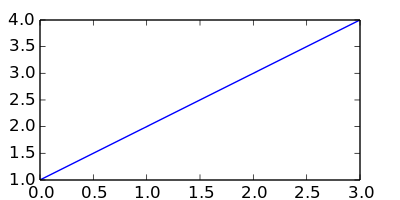
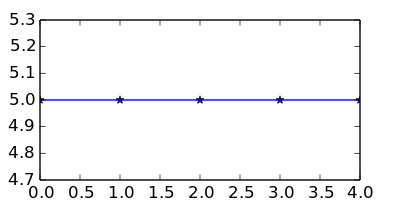
Now supports continus voltage accusition and displays it in a graph.

diff --git a/sch.py b/sch.py
@@ -123,7 +123,7 @@ class SCH(Screen,XMLElement):
             self.selectedPins.append(i)
 
 
-    def selectInstances(self,a):
+    def selectInstances(self,a,datasheets=True):
         '''
         This selects all instances that come in the list a
         and centers the frame about the first one in the list.
@@ -134,7 +134,7 @@ class SCH(Screen,XMLElement):
                 i.deselect()
         self.selectedInstances = a
         for i in a:
-            i.select()
+            i.select(datasheet=datasheets)
         
         #Move x,y so that the first instance of the selected instances is at the center of the screen
         self.x = (width/2)-(a[0].x*scale)
@@ -149,7 +149,7 @@ class Sheet(XMLElement):
         self.instanceHash = {}
         self.nets = []
         self.rootParent = rootParent
-        self.measurements = []
+        self.measurement = None
 
         self.loadInstances()
         print self.instanceHash
@@ -174,8 +174,8 @@ class Sheet(XMLElement):
             i.draw(cr)
         for i in self.nets:
             i.draw(cr)
-        for i in self.measurements:
-            i.draw(cr)
+        if self.measurement is not None:
+            self.measurement.draw(cr)
 
 
     def processFrame(self,frame):
@@ -192,20 +192,23 @@ class Sheet(XMLElement):
 
 
     def processVACFrame(self,frameDict):
-        measObj = ACMeasurement(frameDict,self)
-        self.measurements = []
-        self.measurements.append(measObj)
+        print 'and here'
+        if self.measurement is not None and self.measurement.type == 'VAC' and frameDict['id'] == self.measurement.id:
+            print 'here'
+            self.measurement.addValue(frameDict)
+        else:
+            measObj = ACMeasurement(frameDict,self)
+            self.measurement = measObj
         
-        self.parent.selectInstances([measObj.positivePart])
-        self.parent.selectPins([measObj.positivePin])
+            self.parent.selectInstances([measObj.positivePart],datasheets=False)
+            self.parent.selectPins([measObj.positivePin])
         
-        return measObj.center()
+        return self.measurement.center()
 
 
     def processVDCFrame(self,frameDict):
         measObj = DCMeasurement(frameDict,self)
-        self.measurements = []
-        self.measurements.append(measObj)
+        self.measurement = measObj
 
         self.parent.selectInstances([measObj.positivePart])
         self.parent.selectPins([measObj.positivePin])
@@ -221,9 +224,9 @@ class Sheet(XMLElement):
 
 class ACMeasurement(object):
     def __init__(self,frameDict,schSheet):
+        self.id = frameDict['id']
         self.type = frameDict['type']
-        self.value = frameDict['value']
-        self.valueText = '%f V'%(self.value,)
+        self.values = [frameDict['value']]
         positive = frameDict['positive']
         positiveParts = schSheet.instanceHash[positive['partName']]
     
@@ -240,8 +243,22 @@ class ACMeasurement(object):
         (x1,y1) = self.positivePin.centerAbsolute()
         (self.centerX,self.centerY) = (x1,y1)
 
+        self.createImage()
+
+
+    def addValue(self,frameDict):
+        maxLen = 100
+        if self.positivePin.testData is not None:
+            maxLen = len(self.positivePin.testData['voltage'])
+
+        if len(self.values) >= maxLen:
+            self.values = self.values[1:]
+        self.values.append(frameDict['value'])
+        self.createImage()
+
+    def createImage(self):
         #create the plot to be displayed
-        plotPng('s.png')
+        plotPng('s.png',self.values,testData=self.positivePin.testData)
         self.imagesurface = cairo.ImageSurface.create_from_png('s.png')
         self.imageHeight = self.imagesurface.get_height()
     
@@ -391,9 +408,10 @@ class Instance(XMLElement):
         if self.dataSheetFileName is not None:
             self.pdfProcess = subprocess.Popen([pdfCommand,datasheetDir+self.dataSheetFileName])
 
-    def select(self):
+    def select(self,datasheet=True):
         self.selected = True
-        self.loadDatasheet()
+        if datasheet:
+            self.loadDatasheet()
 
     def closeDatasheet(self):
         try:
@@ -681,7 +699,6 @@ class Pin(XMLElement):
             cr.move_to(p+plusWidth,q+plusHeight)
             applyRotationAboutPoint(cr,x2,y2,self.rot)
         cr.show_text(self.name)
-
         cr.restore()
         
 

diff --git a/pcb.py b/pcb.py
@@ -13,7 +13,8 @@ import  xml.etree.ElementTree as ET
 from numpy import *
 from plane import Plane
 from colors import *
-
+import threading
+        
 
 def rotate(x,y,theta):
     rotMat = matrix(((math.cos(theta),math.sin(theta)),((-1)*math.sin(theta),math.cos(theta)),))
@@ -34,6 +35,8 @@ class PCB(Screen):
         self.elements = []
         self.multimeter = multimeter
 
+
+        self.measurementId = 0
         self.signals = []
         self.loadElements()
         self.loadSignals()
@@ -62,6 +65,8 @@ class PCB(Screen):
         self.selectedSignalForCalibration = 0
         self.selectedViaForCalibration = 0
         self.calibrated = False
+
+        self.triggerPressed = False
 
         self.tipProjectionX = 0.0
         self.tipProjectionY = 0.0
@@ -109,6 +114,10 @@ class PCB(Screen):
         if self.mode == 'calibration':
             if self.selectedVia().calibrating:
                 self.selectedVia().calibrating = False
+        if self.mode == 'wave':
+            self.triggerPressed = False
+            self.measurementId += 1
+
 
     def buttonRelease(self,a,b):
         # Only mouse/trackpad release
@@ -198,13 +207,24 @@ class PCB(Screen):
                     a = element.checkPadsAndSMDsUnderMouse(x,y)
                     if a is not None:
                         data = {}
+                        data['id'] = self.measurementId
                         data['positive'] = {'partName':element.partName,'pad':a}
                         #negative is connected to the ground of the circuit
                         data['type'] = 'VAC'
                         data['value'] = self.multimeter.measure()
+                        self.originalMeasurement = data
                         self.emit('ui_event',json.dumps(data))
+                        self.triggerPressed = True
+                        measurementThread = threading.Thread(target=self.takeMeasurements)
+                        measurementThread.start()
                 
-        
+
+    def takeMeasurements(self):
+        while(self.triggerPressed):
+            self.originalMeasurement['value'] = self.multimeter.measure()
+            print 'sending measurement'
+            self.emit('ui_event',json.dumps(self.originalMeasurement))
+            time.sleep(0.2)
 
     def buttonPress(self,a,b):
         # I come here, if a MOUSE button is pressed,

diff --git a/plot.py b/plot.py
@@ -1,8 +1,14 @@
 import matplotlib.pyplot as plt
 
-def plotPng(filename):
+def plotPng(filename,values,testData=None):
     fig = plt.figure(figsize=(4,2), dpi=100)
     axes = fig.add_axes([0.1, 0.1, 0.8, 0.8])
-    axes.plot([1,2,3,4])
+
+    xValues = range(len(values))
+    if testData is not None:
+        axes.plot(testData['time'],testData['voltage'],'r')
+        xValues = testData['time'][:len(values)]
+    axes.plot(xValues,values,'b-*')
+
     fig.savefig('s.png')
 
